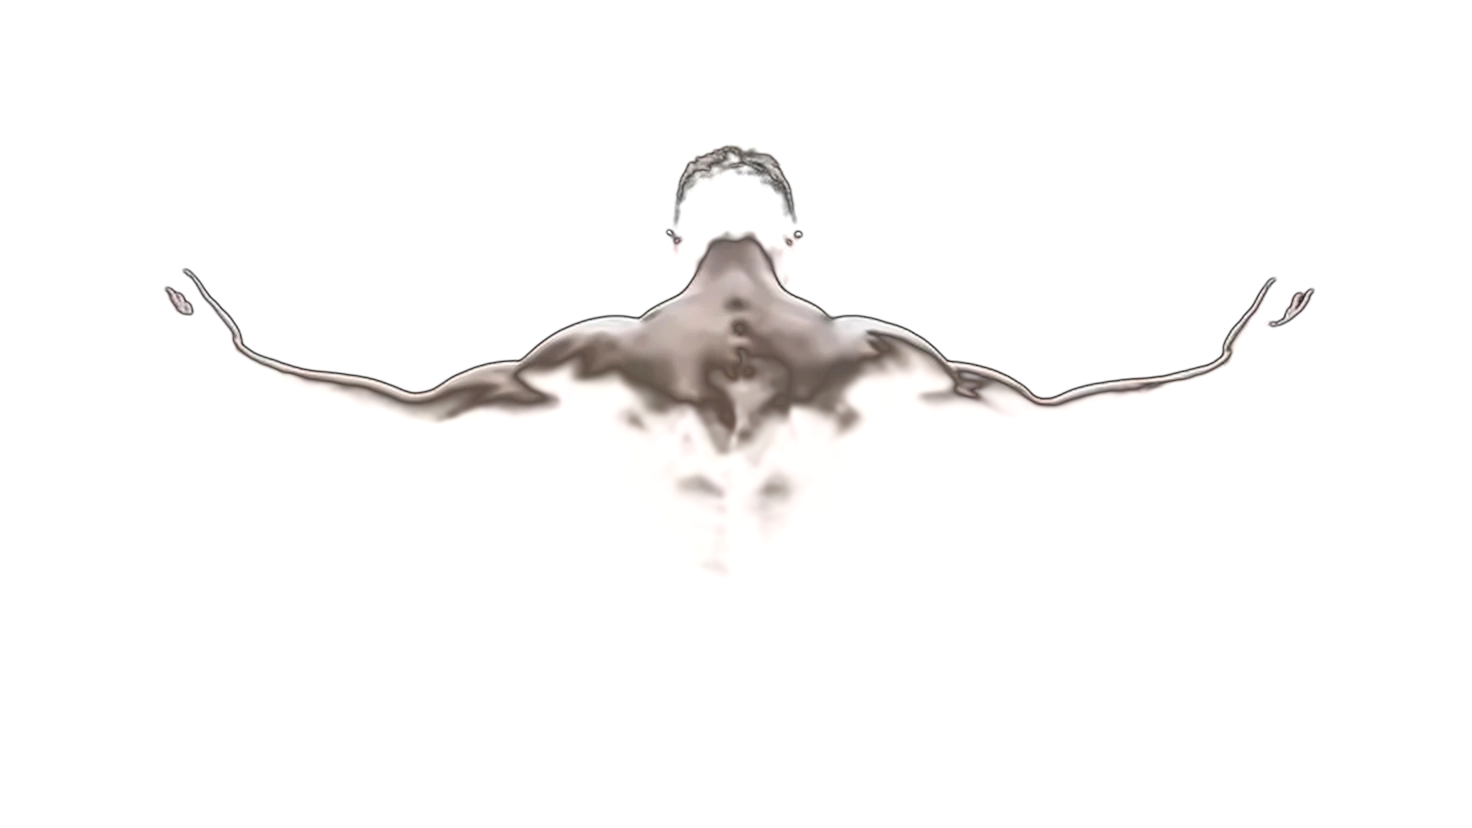
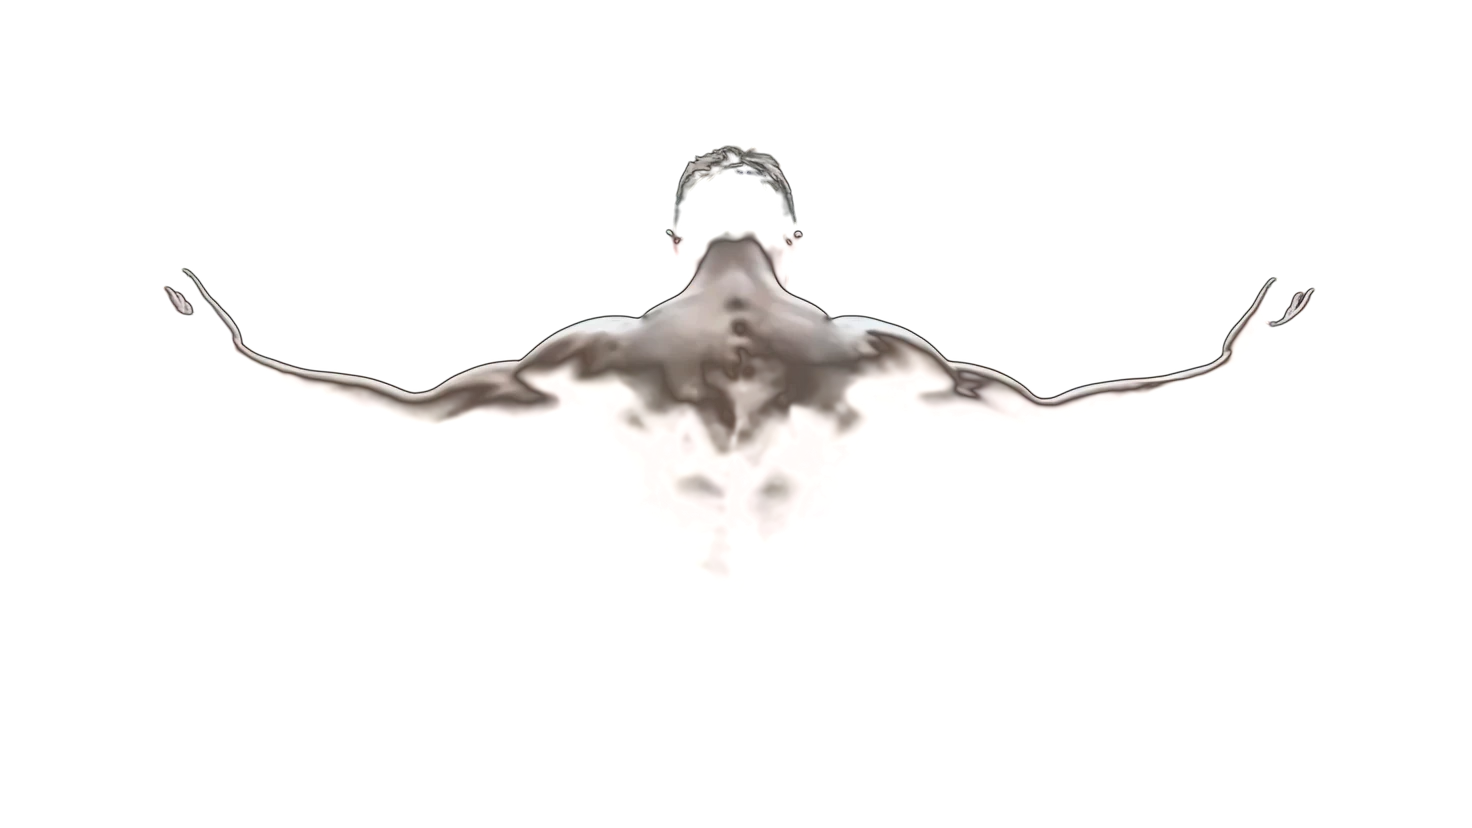
Hero: higher-resolution athlete photo without tattoos
- New 2944px source with the star tattoos removed and skin tone matched
- Transparent WebP at 1472px and 2944px (srcset) for sharp display on
  large and high-density screens; opaque 1472px JPEG as the light texture

Claude-Session: https://claude.ai/code/session_01B1KmCk123mHnQHas8jaJij

Changed region(s): [[0.5312, 0.3925, 0.5938, 0.4831], [0.4062, 0.3925, 0.5, 0.4831], [0.4688, 0.1812, 0.5312, 0.2114]]

diff --git a/index.html b/index.html
@@ -63,7 +63,7 @@
           <div class="hero-layer hero-layer--athlete">
             <div class="hero-athlete">
               <div class="hero-athlete-inner">
-                <img class="hero-photo" src="products/home/hero-athlete.webp" data-light-src="products/home/hero-athlete.jpg" width="1472" height="828" alt="Athlete with arms spread wide, back and shoulders lit against a black background" fetchpriority="high" decoding="async" data-hero-photo>
+                <img class="hero-photo" src="products/home/hero-athlete.webp" srcset="products/home/hero-athlete.webp 1472w, products/home/hero-athlete-2x.webp 2944w" sizes="(max-width: 900px) 178vw, 112vw" data-light-src="products/home/hero-athlete.jpg" width="1472" height="828" alt="Athlete with arms spread wide, back and shoulders lit against a black background" fetchpriority="high" decoding="async" data-hero-photo>
                 <canvas class="hero-light" aria-hidden="true" data-hero-light></canvas>
               </div>
             </div>
